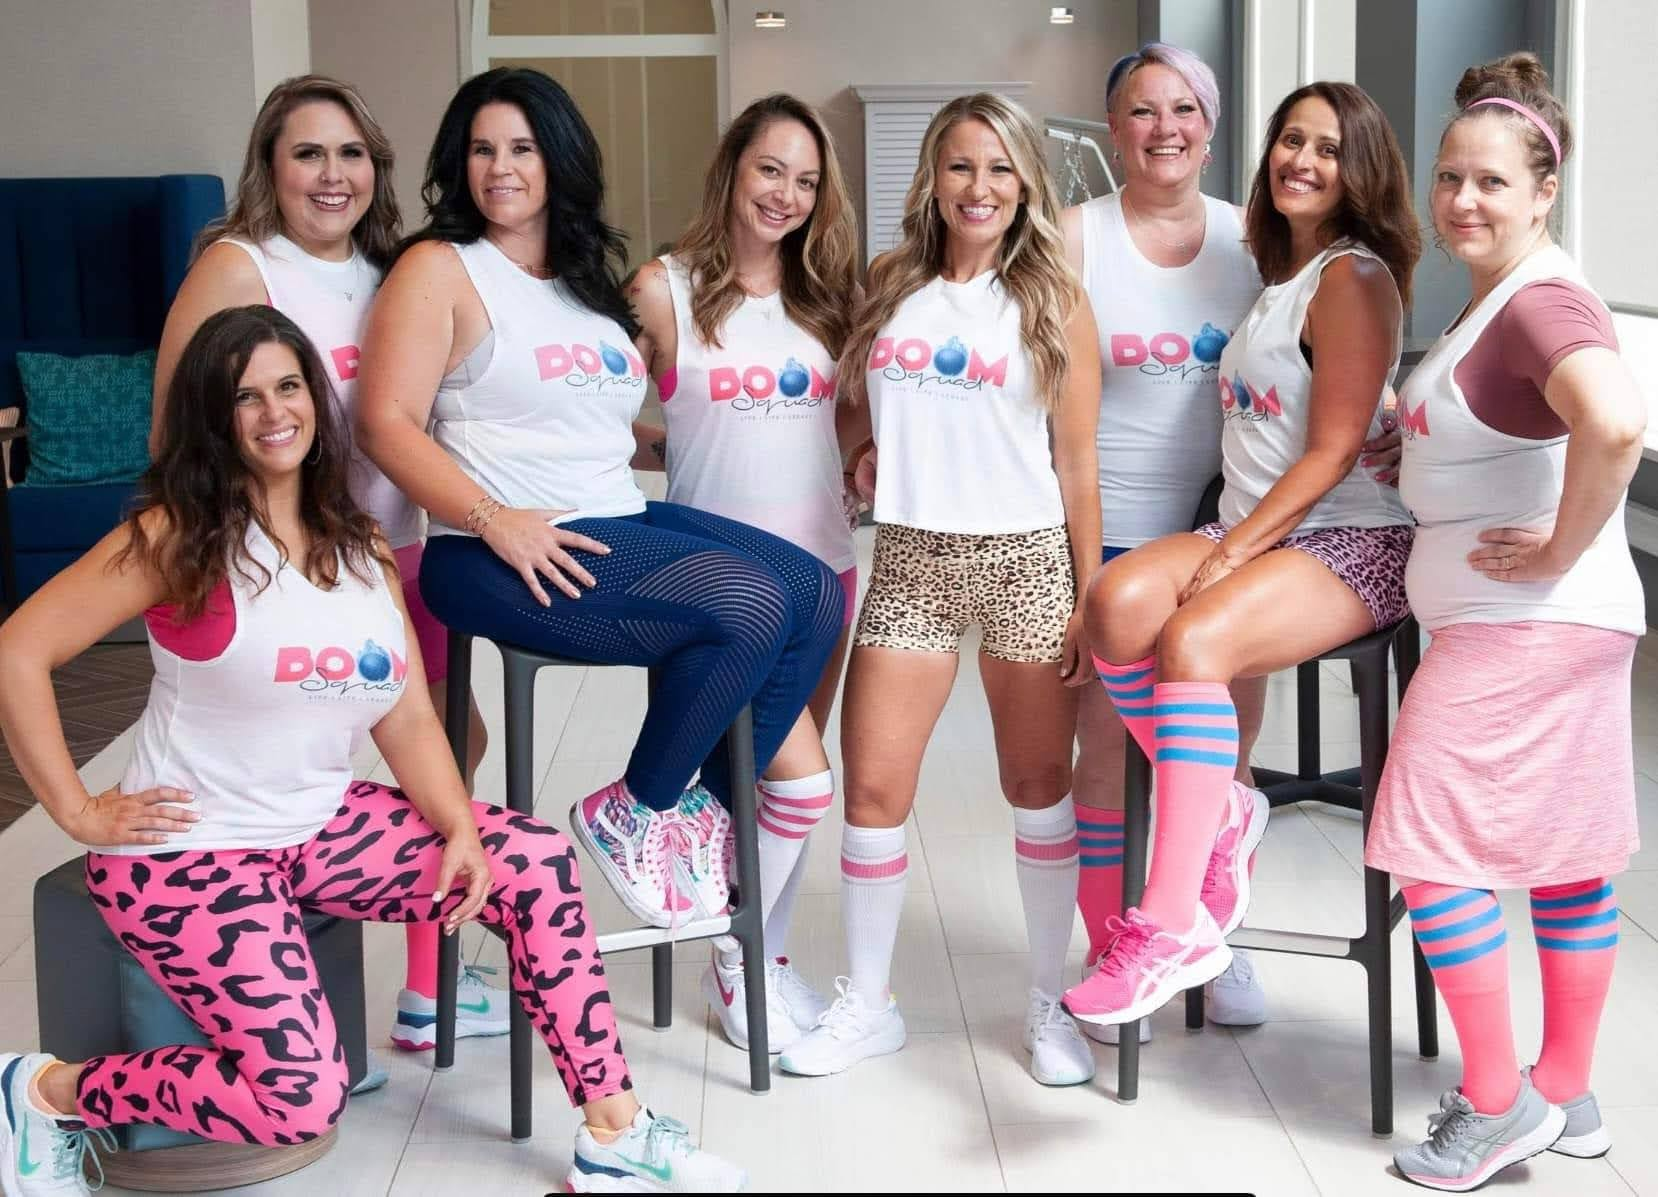
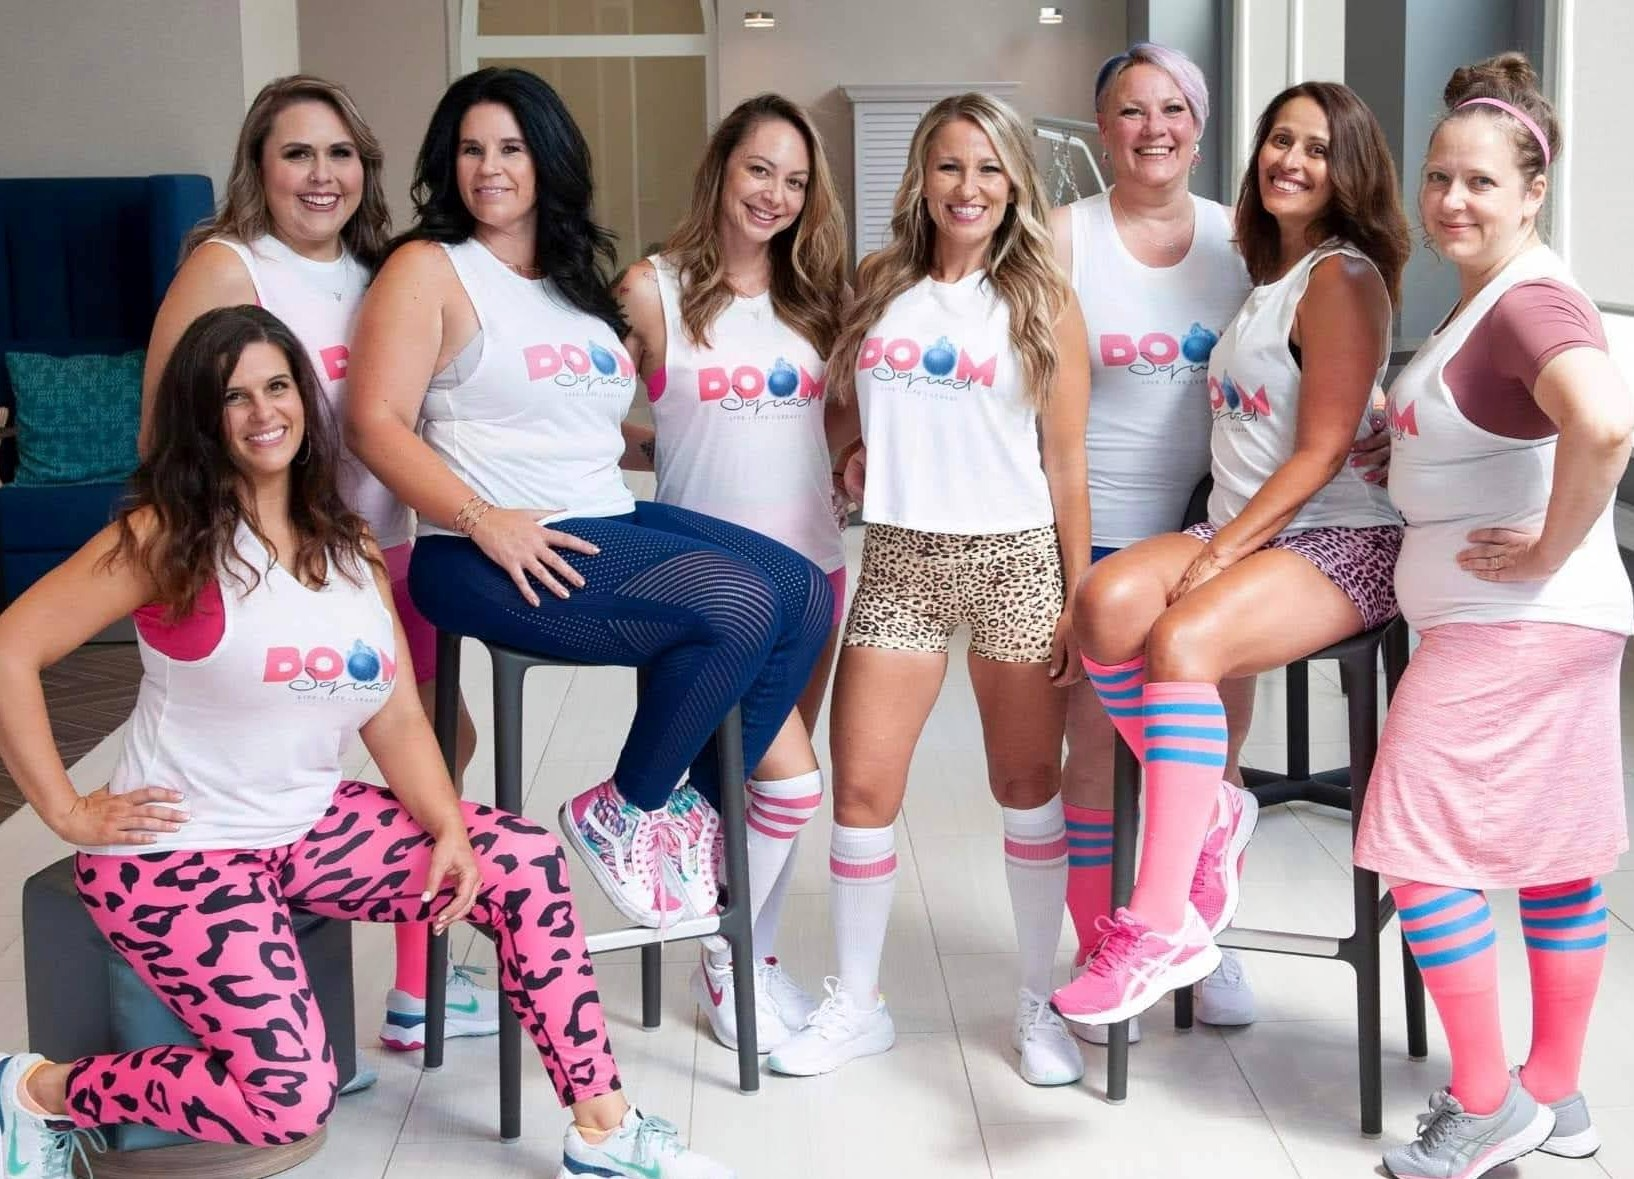
Adding details

diff --git a/style.css b/style.css
@@ -3,6 +3,10 @@
     padding: 0;
 }
 
+html {
+    background-color: rgb(255, 241, 244);
+}
+
 nav {
     position: fixed;
     width: 100%;
@@ -28,35 +32,40 @@ a {
 
 #cover {
     height: auto;
-    width: 80%;
-    margin: 4% 10%;
+    width: 90%;
+    margin: 4% 5%;
 }
 
 /* Middle Section */
 
 #beforeAfter {
     height: auto;
-    width: 40%;
-    margin-left: 10%;
+    width: 45%;
+    margin-left: 5%;
 }
 
 .columns {
     display: flex;
     width: 100%;
+    background-color: skyblue;
 }
 
-.container {
-    background-color: rgb(255, 241, 244);
-    width: 40%;
-    text-align: center;
+/* Saving background color as similar color to cover picture 
+background-color: rgb(255, 241, 244); */
+
+h1 {
+    display: flex;
+    justify-content: center;
+    margin: 35px;
 }
 
 #squad {
     height: auto;
-    width: 80%;
-    margin: 4% 10%;
+    width: 90%;
+    margin: 0 5%;
 }
 
 #contact {
+    padding: 2em;
     text-align: center;
 }

diff --git a/index.html b/index.html
@@ -26,6 +26,8 @@
             </div>
         </div>
 
+        <h1>Boom Squad</h1>
+
         <img id="squad" src="./FB_IMG_1658848257699.jpg" alt="Boom Squad"/>
 
         <div id="contact">
